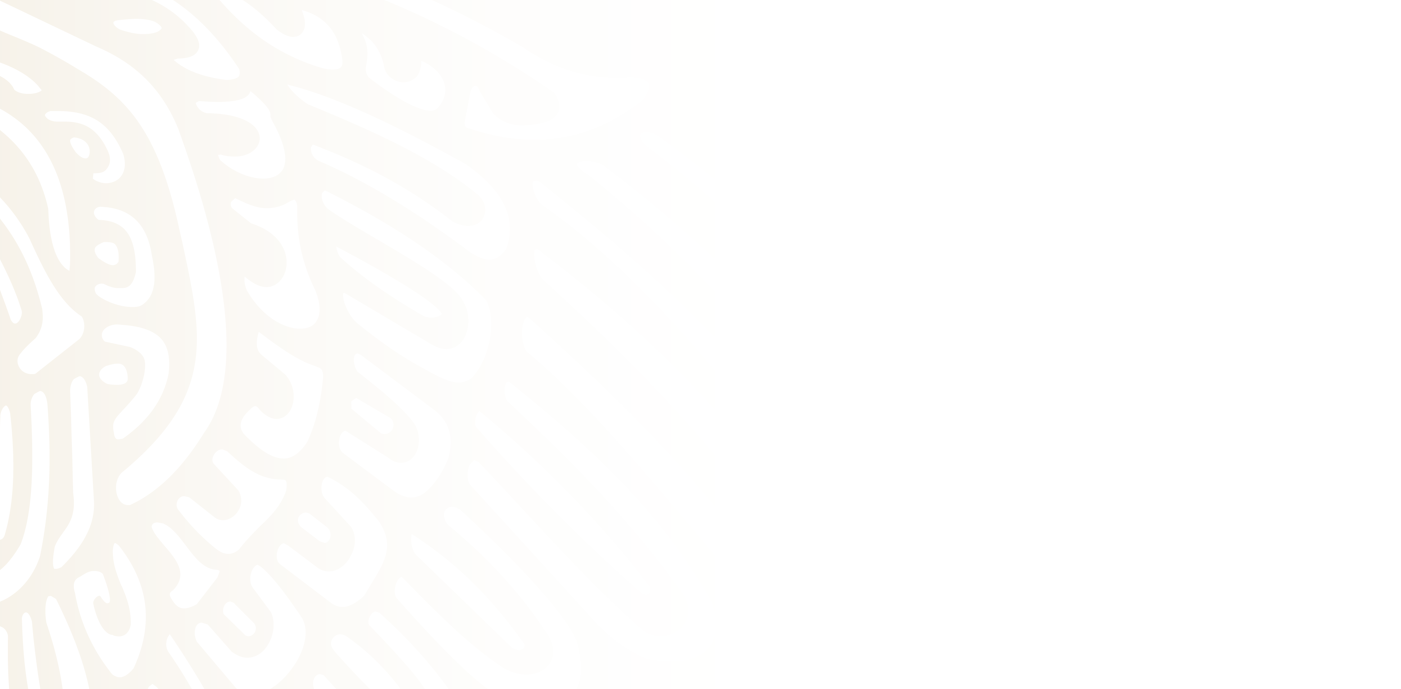
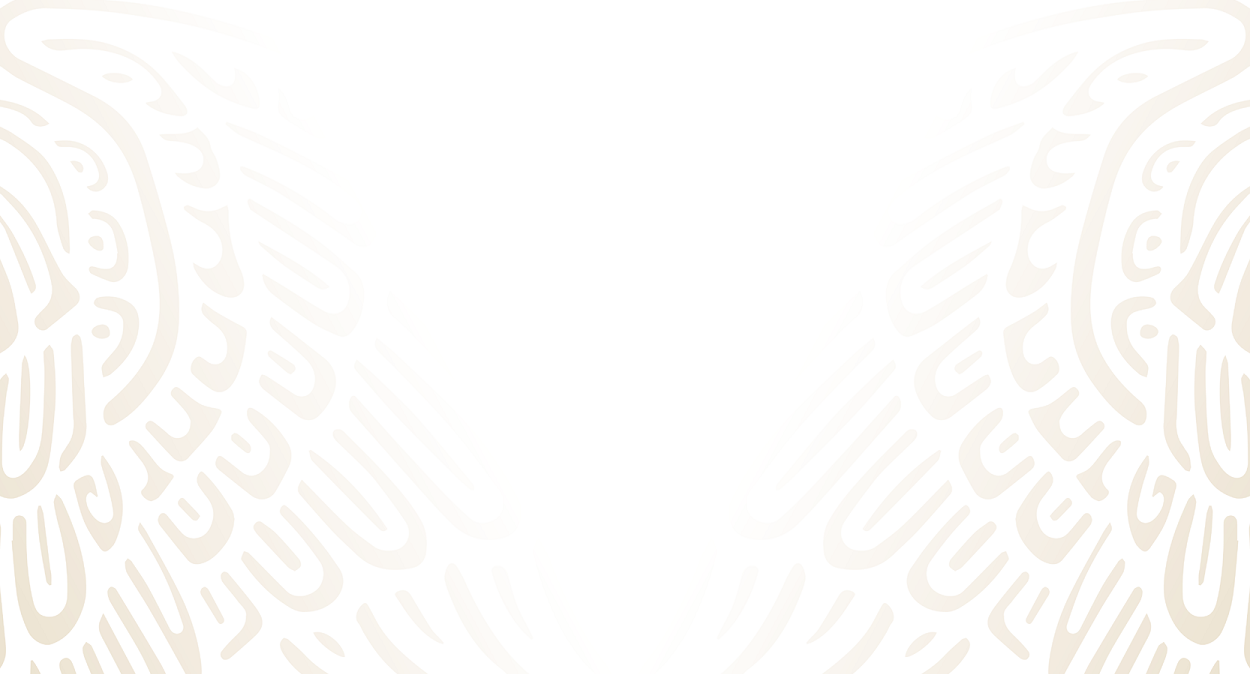
wallpaper v2

diff --git a/App/View/Hraes/Empleados/index.php b/App/View/Hraes/Empleados/index.php
@@ -75,7 +75,7 @@
                         <button onclick="anteriorValor()" class="btn btn-light"><i class="fa fa-angle-double-left"></i>
                             <span class="hide-menu" style="font-weight: bold;"></span>
                         </button>
-                        <label id="idEmpleadotable">1</label>
+                        <label id="idEmpleadotable"></label>
                         <button onclick="siguienteValor()" class="btn btn-light"><i
                                 class="fa fa-angle-double-right"></i>
                             <span class="hide-menu" style="font-weight: bold;"></span>

diff --git a/App/View/nav-menu.php b/App/View/nav-menu.php
@@ -138,7 +138,7 @@ $id_rol = $_SESSION['id_rol'];
 
 
         .bg-image {
-            background-image: url('../../../../assets/sirh/fondo.jpg');
+            background-image: url('../../../../assets/sirh/fondo.png');
             /* Ruta de tu imagen de fondo */
             background-size: cover;
             /* Ajusta la imagen al tamaño del contenedor */
